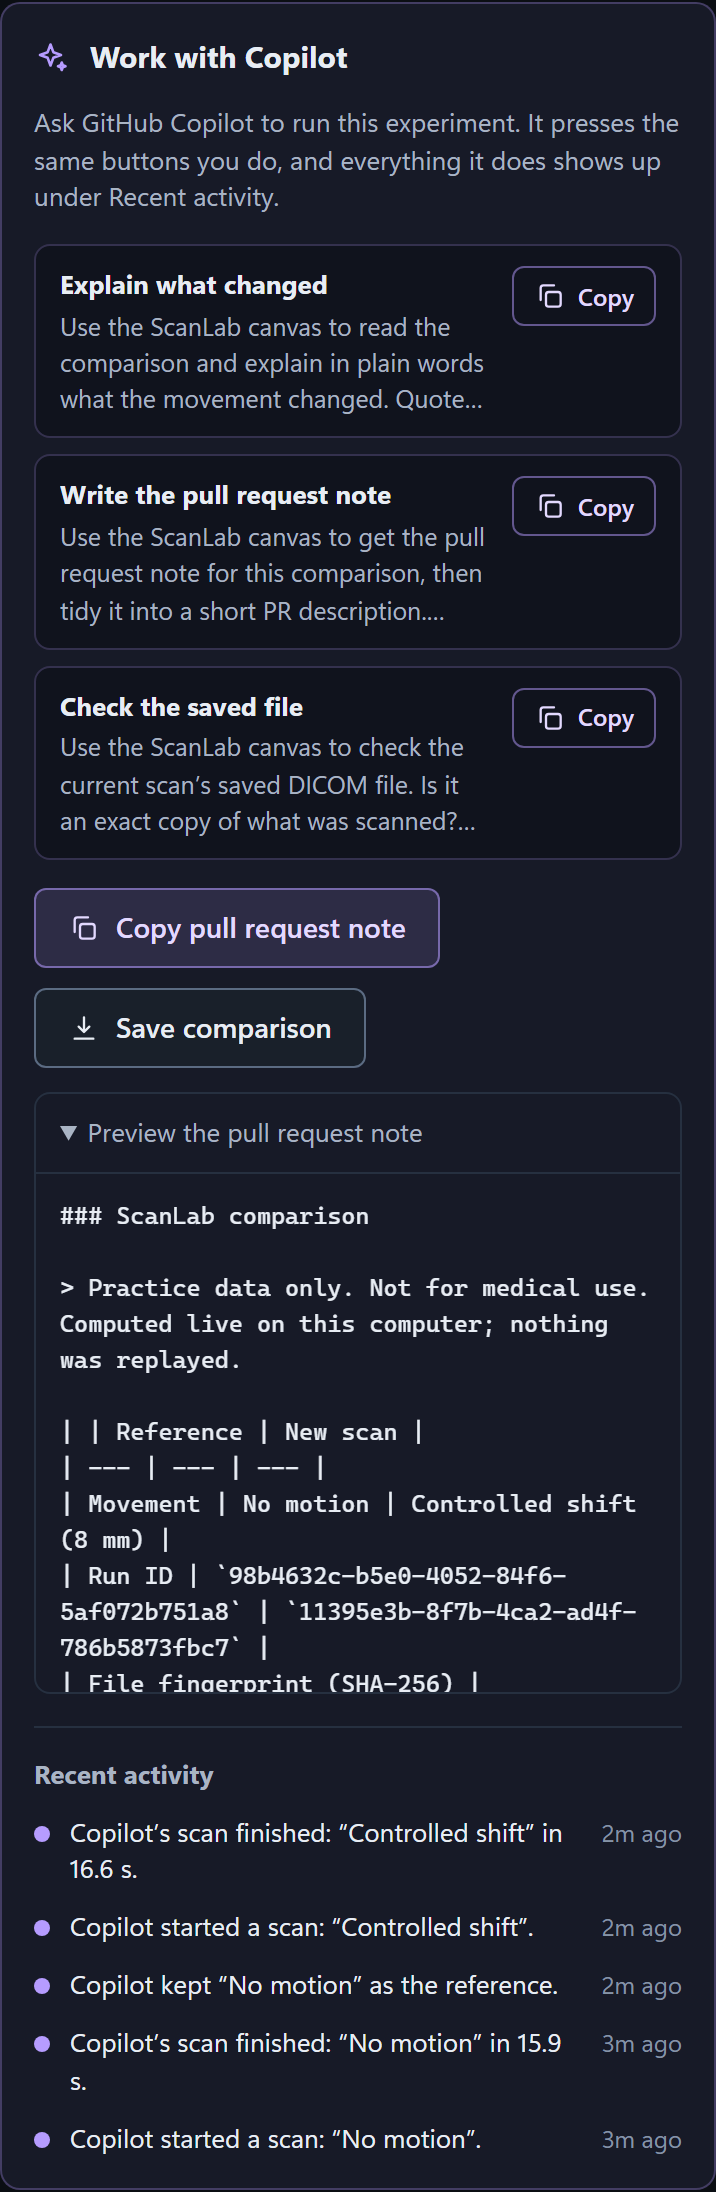
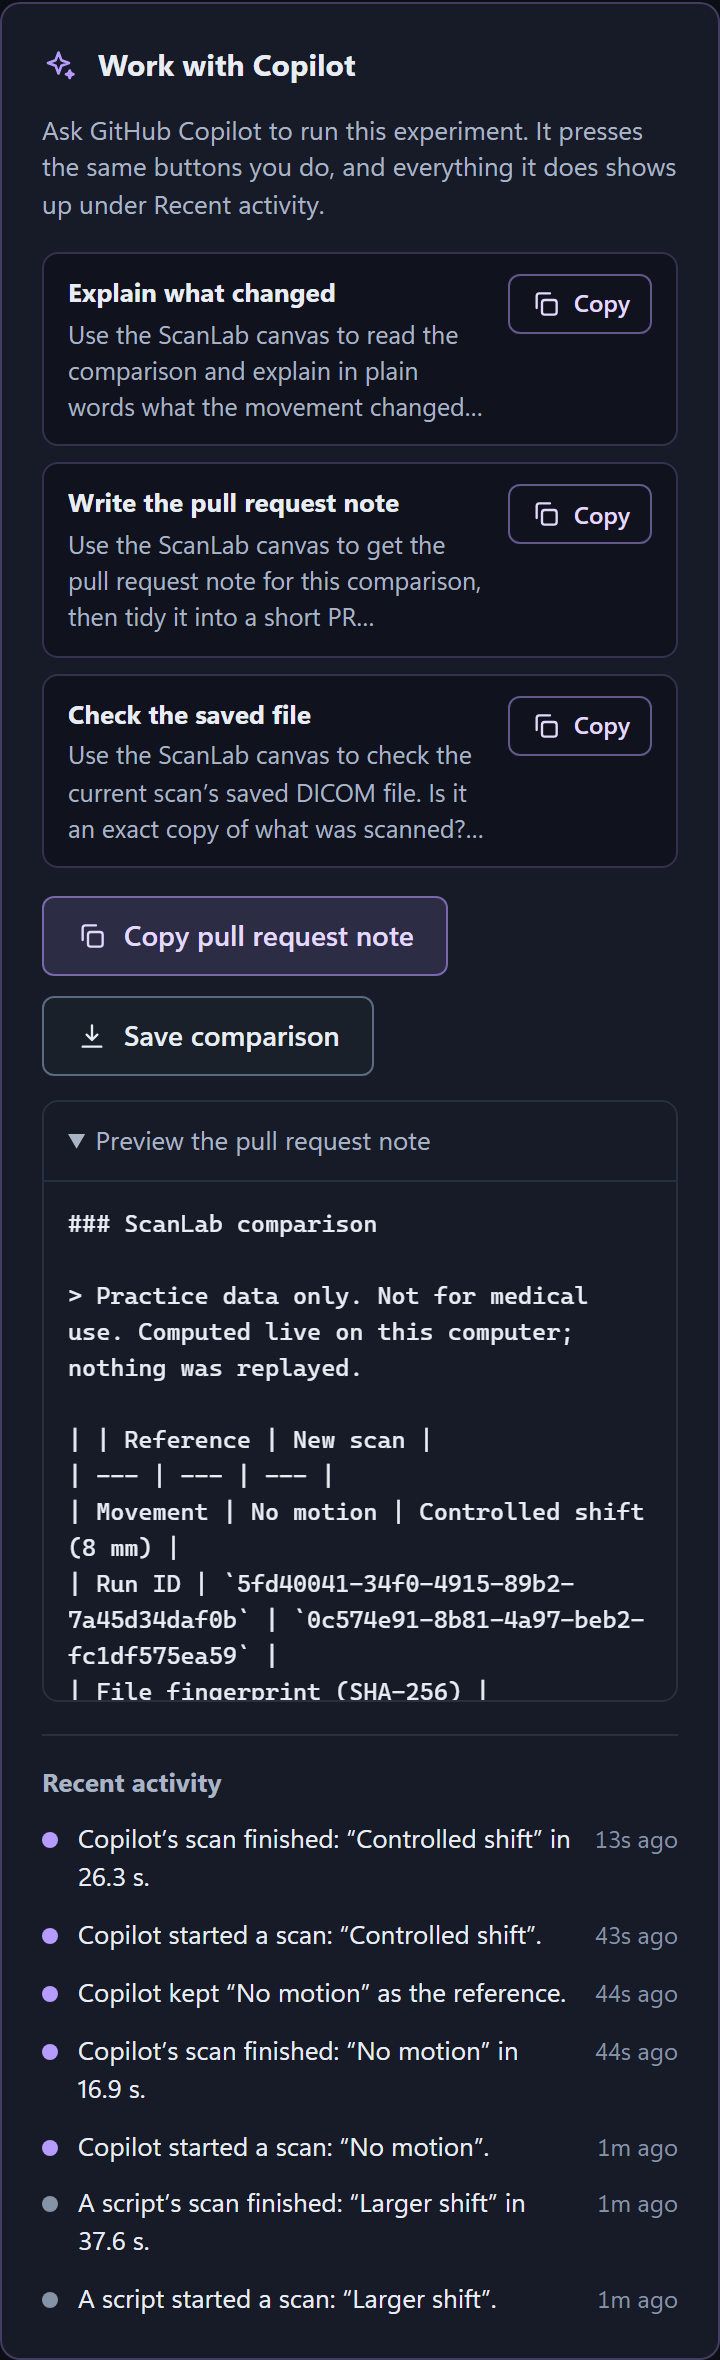
feat(scanlab): render 192x192 images with on-screen smoothing
Simulate at 192 x 192 on two threads (pixels are bit-identical to one thread). A scan takes about 17-19 s without movement and 26-38 s with it. Rescale intensity to 1.7 and bump the model version to v3.

Blend between pixels on screen with Plotly zsmooth; stored and DICOM pixels are unchanged. Keep a number and its unit on one line in the status and activity text.

Retake the five README screenshots from one live session and update the timing and results in the docs. Update the imaging and browser tests for the new size and motion ratios.

Copilot-Session: 3dae0899-03a1-4f70-ac3c-3059c2f25363

diff --git a/scanlab/e2e/scanlab.spec.js b/scanlab/e2e/scanlab.spec.js
@@ -120,7 +120,7 @@ test('fresh startup has no preloaded or warm-up result', async ({ page }) => {
 });
 
 test('scan, keep a reference, scan again: the reference never changes', async ({ page }) => {
-  // Three live 128×128 brain simulations plus full-pixel DICOM verification.
+  // Three live 192×192 brain simulations plus full-pixel DICOM verification.
   test.setTimeout(240000);
   const errors = trackErrors(page);
   await open(page);
@@ -228,7 +228,7 @@ test('the saved DICOM file is exactly what the page shows', async ({ page }) => 
   expect(dataset.string('x00080064')).toBe('SYN');
   expect(dataset.string('x00020010')).toBe('1.2.840.10008.1.2.1');
   const size = baseline.parameters.resolution;
-  expect(size).toBe(128);
+  expect(size).toBe(192);
   expect(dataset.uint16('x00280010')).toBe(size);
   expect(dataset.uint16('x00280011')).toBe(size);
   expect(dataset.uint16('x00280100')).toBe(16);
@@ -261,11 +261,11 @@ test('zoom, pan, brightness and contrast move every image together', async ({ pa
 
   await page.locator('#zoom-in').click();
   await expect(page.locator('#zoom-label')).toHaveText('1.25×');
-  await expect.poll(async () => { const [view] = await sideViews(page); return view.x[1] - view.x[0]; }).toBeCloseTo(128 / 1.25, 3);
+  await expect.poll(async () => { const [view] = await sideViews(page); return view.x[1] - view.x[0]; }).toBeCloseTo(192 / 1.25, 3);
   let [reference, current] = await sideViews(page);
   expect(current).toEqual(reference);
   for (let step = 0; step < 3; step++) await page.locator('#zoom-in').click();
-  await expect.poll(async () => { const [view] = await sideViews(page); return view.x[1] - view.x[0]; }).toBeCloseTo(64, 3);
+  await expect.poll(async () => { const [view] = await sideViews(page); return view.x[1] - view.x[0]; }).toBeCloseTo(96, 3);
 
   // Dragging one image moves both by the same amount.
   const [startView] = await sideViews(page);
@@ -279,7 +279,7 @@ test('zoom, pan, brightness and contrast move every image together', async ({ pa
   await expect.poll(async () => (await sideViews(page))[1].x[0] - startView.x[0]).toBeGreaterThan(8);
   [reference, current] = await sideViews(page);
   expect(current).toEqual(reference);
-  expect(current.x[0] - startView.x[0]).toBeCloseTo(12.8, 0);
+  expect(current.x[0] - startView.x[0]).toBeCloseTo(19.2, 0);
   expect(current.y).toEqual(startView.y);
 
   await page.locator('#pane-current .frame').focus();
@@ -314,7 +314,7 @@ test('zoom, pan, brightness and contrast move every image together', async ({ pa
   await page.keyboard.press('0');
   await expect(page.locator('#zoom-label')).toHaveText('1×');
   await expect(page.locator('#contrast-value')).toHaveText('100%');
-  await expect.poll(async () => { const [view] = await sideViews(page); return [view.x[1] - view.x[0], view.zmin, view.zmax]; }).toEqual([128, 0, 1]);
+  await expect.poll(async () => { const [view] = await sideViews(page); return [view.x[1] - view.x[0], view.zmin, view.zmax]; }).toEqual([192, 0, 1]);
   [reference, current] = await sideViews(page);
   expect(current).toEqual(reference);
 

diff --git a/public/scanlab/app.js b/public/scanlab/app.js
@@ -8,7 +8,7 @@ import {
 } from '/story.js';
 
 const WORKFLOW_VERSION = 'dicom-v2';
-const DEFAULT_SIZE = 128;
+const DEFAULT_SIZE = 192;
 const POLL_RUNNING_MS = 400;
 const POLL_IDLE_MS = 1000;
 const SVG_NS = 'http://www.w3.org/2000/svg';
@@ -17,12 +17,16 @@ const PLOT = { baseline: 'baseline-image', current: 'current-image', difference:
 const PANE = { baseline: 'pane-baseline', current: 'pane-current', difference: 'pane-difference' };
 const GRAY = [[0, '#000000'], [1, '#ffffff']];
 const HEAT = [[0, '#000004'], [0.2, '#3b0f70'], [0.4, '#8c2981'], [0.6, '#de4968'], [0.8, '#fe9f6d'], [1, '#fcfdbf']];
+// Blend between pixels on screen, as image viewers do; stored pixels are unchanged.
+const SMOOTHING = 'best';
 const PLOT_CONFIG = { staticPlot: true, displayModeBar: false, displaylogo: false, responsive: false };
 const OFFLINE_STATUS = 'Disconnected. Existing images are not new results.';
 const COMPARE_HINT = 'Keep a reference, then scan again to compare';
 const DEFAULT_VIEW = { zoom: 1, panX: 0, panY: 0, brightness: 0, contrast: 100 };
 
 const $ = (id) => document.getElementById(id);
+// Keep a number and its unit on one line ("19.3 s"), on screen only.
+const keepUnits = (text) => text.replace(/(\d) s\b/g, '$1\u00a0s');
 const IDLE_READOUT = $('readout').textContent;
 
 const token = (() => {
@@ -258,7 +262,7 @@ function renderControls() {
     line = 'The action did not complete.';
     tone = 'bad';
   } else {
-    line = statusLine(live);
+    line = keepUnits(statusLine(live));
     if (live?.status === 'failed') tone = 'bad';
   }
   setText($('status'), line);
@@ -400,7 +404,7 @@ function renderCopilot() {
       dot.setAttribute('aria-hidden', 'true');
       const when = el('time', '', relativeTime(entry.at));
       when.dateTime = entry.at;
-      item.append(dot, el('span', 'feed-text', entry.text), when);
+      item.append(dot, el('span', 'feed-text', keepUnits(entry.text)), when);
       return item;
     }) : [el('li', 'feed-empty', 'Nothing yet. Actions from you and from Copilot will show up here.')]));
   });
@@ -525,13 +529,13 @@ function grayTrace(result) {
   const z = zOf(result);
   if (!Array.isArray(z)) return null;
   const { zmin, zmax } = grayWindow(view);
-  return { size: z.length, trace: { type: 'heatmap', z, zmin, zmax, colorscale: GRAY, showscale: false, hoverinfo: 'skip', transpose: false } };
+  return { size: z.length, trace: { type: 'heatmap', z, zmin, zmax, colorscale: GRAY, zsmooth: SMOOTHING, showscale: false, hoverinfo: 'skip', transpose: false } };
 }
 
 function heatTrace() {
   const map = getDifference();
   if (!map) return null;
-  return { size: map.z.length, trace: { type: 'heatmap', z: map.z, zmin: 0, zmax: map.scaleMax, colorscale: HEAT, showscale: false, hoverinfo: 'skip', transpose: false }, map };
+  return { size: map.z.length, trace: { type: 'heatmap', z: map.z, zmin: 0, zmax: map.scaleMax, colorscale: HEAT, zsmooth: SMOOTHING, showscale: false, hoverinfo: 'skip', transpose: false }, map };
 }
 
 function develop(plot) {

diff --git a/docs/testing.md b/docs/testing.md
@@ -12,11 +12,11 @@ prerequisite is a failed result, not a reason to skip a test.
 
 | Command | What it runs | Takes about |
 |---|---|---|
-| `npm run scanlab:check` | Every ScanLab test: Julia, Node and browser | About 12 minutes |
-| `npm run scanlab:test` | ScanLab Julia and Node tests | 4 minutes |
-| `npm run scanlab:e2e` | ScanLab browser tests | About 8 minutes |
+| `npm run scanlab:check` | Every ScanLab test: Julia, Node and browser | About 18 minutes |
+| `npm run scanlab:test` | ScanLab Julia and Node tests | About 6 minutes |
+| `npm run scanlab:e2e` | ScanLab browser tests | About 11 minutes |
 | `npm run check` | Every request desk test: Julia, Node and browser | 2 minutes |
-| `npm run check:all` | Both of the above | About 14 minutes |
+| `npm run check:all` | Both of the above | About 20 minutes |
 | `node --test test/*.test.js scanlab/test/*.test.js` | Every Node test. No Julia or browser needed | 10 seconds |
 
 The times are rough, from a Windows development machine after setup. While you
@@ -37,7 +37,7 @@ which Git ignores.
 
 | Suite | Files | What it proves |
 |---|---|---|
-| Julia: imaging | `scanlab/test/science.jl` | Each of the three motion presets runs the real KomaMRI and MRIReco code and gives a finite 128 × 128 picture. The same preset gives the same picture again, in a new run. How far each preset changes the picture is pinned. An independent call to the libraries gives the same pixels |
+| Julia: imaging | `scanlab/test/science.jl` | Each of the three motion presets runs the real KomaMRI and MRIReco code and gives a finite 192 × 192 picture. The same preset gives the same picture again, in a new run. How far each preset changes the picture is pinned. An independent, single-threaded call to the libraries gives the same pixels |
 | Julia: runs and the reference | `scanlab/test/state.jl` | Bad input is refused. Only one scan runs at a time. The reference never changes after later scans or a failed scan, and a failure says so. Every run computes; nothing is replayed. The activity list names who did what, and unknown names are refused |
 | Julia: DICOM file | `scanlab/test/dicom.jl` | A saved file reads back to the same picture within a measured rounding error. It is a Secondary Capture marked synthetic, with no invented orientation or pixel spacing. Each save gets new IDs. The reference file's bytes never change |
 | Julia: service | `scanlab/test/server.jl` | Routes, methods, the session token and origin checks. A running scan never freezes the server. The start-up rehearsal leaves no result behind |
@@ -82,18 +82,18 @@ Playwright 1.64.0 (Chromium). Everything passed and nothing was skipped.
 
 | Suite | Passed | Test time |
 |---|---|---|
-| ScanLab Julia: imaging | 70 of 70 | 3 min 23 s |
-| ScanLab Julia: runs and the reference | 47 of 47 | 1.7 s |
-| ScanLab Julia: activity and change measurements | 40 of 40 | 0.3 s |
-| ScanLab Julia: DICOM file | 26 of 26 | 0.9 s |
-| ScanLab Julia: service | 82 of 82 | 20.5 s |
-| ScanLab Node | 38 of 38 | 3.1 s |
-| ScanLab browser | 23 of 23 | 8.0 min |
-| Request desk Julia: request store | 39 of 39 | 1.7 s |
-| Request desk Julia: HTTP API | 84 of 84 | 29.4 s |
-| Request desk Julia: study | 14 of 14 | 10.4 s |
-| Request desk Node | 7 of 7 | 7.7 s |
-| Request desk browser | 11 of 11 | 37.1 s |
+| ScanLab Julia: imaging | 70 of 70 | 4 min 30 s |
+| ScanLab Julia: runs and the reference | 47 of 47 | 1.8 s |
+| ScanLab Julia: activity and change measurements | 40 of 40 | 0.4 s |
+| ScanLab Julia: DICOM file | 26 of 26 | 1.2 s |
+| ScanLab Julia: service | 82 of 82 | 24.6 s |
+| ScanLab Node | 38 of 38 | 3.8 s |
+| ScanLab browser | 23 of 23 | 11.3 min |
+| Request desk Julia: request store | 39 of 39 | 0.8 s |
+| Request desk Julia: HTTP API | 84 of 84 | 21.7 s |
+| Request desk Julia: study | 14 of 14 | 9.5 s |
+| Request desk Node | 7 of 7 | 7.0 s |
+| Request desk browser | 11 of 11 | 33.6 s |
 
 Julia counts individual checks. Node and browser counts are whole tests. This is
 a record of one run, not a promise. Run the commands yourself before you present.

diff --git a/docs/how-it-works.md b/docs/how-it-works.md
@@ -28,7 +28,7 @@ The page shows four stages. They are real: the service reports each one as it
 happens.
 
 1. **Simulate the scan.** KomaMRI simulates the scanner and the head. MRIReco
-   turns the signal into a 128 × 128 picture.
+   turns the signal into a 192 × 192 picture.
 2. **Save as DICOM file.** DICOM.jl writes the picture as a DICOM file, the
    standard format for medical images.
 3. **Open the file again.** The file is read back from its bytes.
@@ -47,11 +47,12 @@ ScanLab does not implement MRI physics. It uses libraries that already do
 - **Head:** KomaMRI's bundled `brain_phantom2D`, a slice of the BrainWeb digital
   brain model, sampled at 1.0 mm with 25,971 simulated points. It is a published
   synthetic phantom, not a person.
-- **Scanner:** KomaMRI's built-in single-shot EPI sequence, simulated on the CPU
-  and reconstructed to 128 × 128 pixels over a 0.23 m field of view.
+- **Scanner:** KomaMRI's built-in single-shot EPI sequence, simulated on two CPU
+  threads and reconstructed to 192 × 192 pixels (about 1.2 mm each) over a 0.23 m
+  field of view. Two threads give exactly the same pixels as one, only faster.
 - **Movement:** the head shifts left and right while the scan is being read out.
   That is what produces the ghosting and blur.
-- **Brightness:** every image is divided by the same constant (3.8), so both
+- **Brightness:** every image is divided by the same constant (1.7), so both
   scans share one 0–1 scale. Nothing is normalized per image, so signal lost to
   movement stays visible.
 
@@ -67,7 +68,7 @@ synthetic subject, and unsigned 16-bit `MONOCHROME2` pixels.
 - Every scan gets new series and instance IDs. One synthetic study groups the
   scans in a session.
 - No patient orientation, pixel spacing or scanner details are claimed, and the
-  128 × 128 image is never enlarged to look more detailed.
+  192 × 192 image is never enlarged to look more detailed.
 - Storing decimals as 16-bit integers rounds them. The rounding error is
   measured, and it must not exceed half of one stored step. Stored pixels,
   dimensions and identifiers must come back exactly. Any failure rejects the
@@ -95,7 +96,9 @@ its own run ID while another scan runs or fails.
 - **Biggest change:** the change at the single most different pixel.
 
 Zoom, pan, brightness and contrast move both pictures together and never change
-the stored pixels. **Save comparison** downloads a JSON file with both images,
+the stored pixels. Like most image viewers, the screen blends neighbouring pixels
+instead of drawing hard squares; the file and the measurements use the stored
+pixels only. **Save comparison** downloads a JSON file with both images,
 the DICOM bytes and the evidence. It contains no access token.
 
 ## Words on the page and what they mean
@@ -124,13 +127,13 @@ the Copilot app Canvas use the same page and the same running state.
   Only the three preset IDs are accepted. There are no uploads, file paths or
   scanner settings to change.
 - **Responsive.** Julia starts with `--threads=2,1`, so the web server keeps
-  answering while a scan computes on another thread. The launcher sets this, and
-  the service refuses to start without it.
+  answering on its own thread while a scan computes on the two worker threads.
+  The launcher sets this, and the service refuses to start without it.
 - **Warm start.** Starting takes about three minutes the first time. Before it
   prints the URL, the service rehearses a scan, keep, compare and download on a
   throwaway session and discards the result. The first live click is then quick.
-  A warm scan took about 20 seconds on the development machine; slower CPUs may
-  take longer.
+  A warm scan took about 20 seconds without movement and up to about 40 seconds
+  with it on the development machine; slower CPUs may take longer.
 - **Local only.** Every `/api` request needs the session token in an
   `x-scanlab-token` header, and the browser origin is checked. The page receives
   the token in the URL fragment. Do not share that URL or a screenshot of it.

diff --git a/README.md b/README.md
@@ -69,9 +69,10 @@ and runs every ScanLab test, which takes several minutes. `scanlab` starts the
 app. Wait for `ScanLab ready: <url>` and open that address.
 
 The first start takes about three minutes while Julia compiles and rehearses a
-scan on a throwaway session. A warmed scan took about 20 seconds on the measured
-development machine; allow extra time on slower CPUs. The address carries a
-private token for this computer, so do not share it.
+scan on a throwaway session. A warmed scan took about 20 seconds without movement
+and up to about 40 seconds with it on the measured development machine; allow
+extra time on slower CPUs. The address carries a private token for this
+computer, so do not share it.
 
 ## Use it with GitHub Copilot
 

diff --git a/docs/presenting.md b/docs/presenting.md
@@ -1,8 +1,9 @@
 # Presenting ScanLab
 
 A step-by-step script for showing ScanLab and GitHub Copilot together. Rehearse
-it once on your own machine first. A warm scan took about 20 seconds on the
-measured development machine; allow extra time on slower CPUs.
+it once on your own machine first. A warm scan took about 20 seconds without
+movement and up to about 40 seconds with it on the measured development
+machine; allow extra time on slower CPUs.
 
 ## Before the audience joins
 
